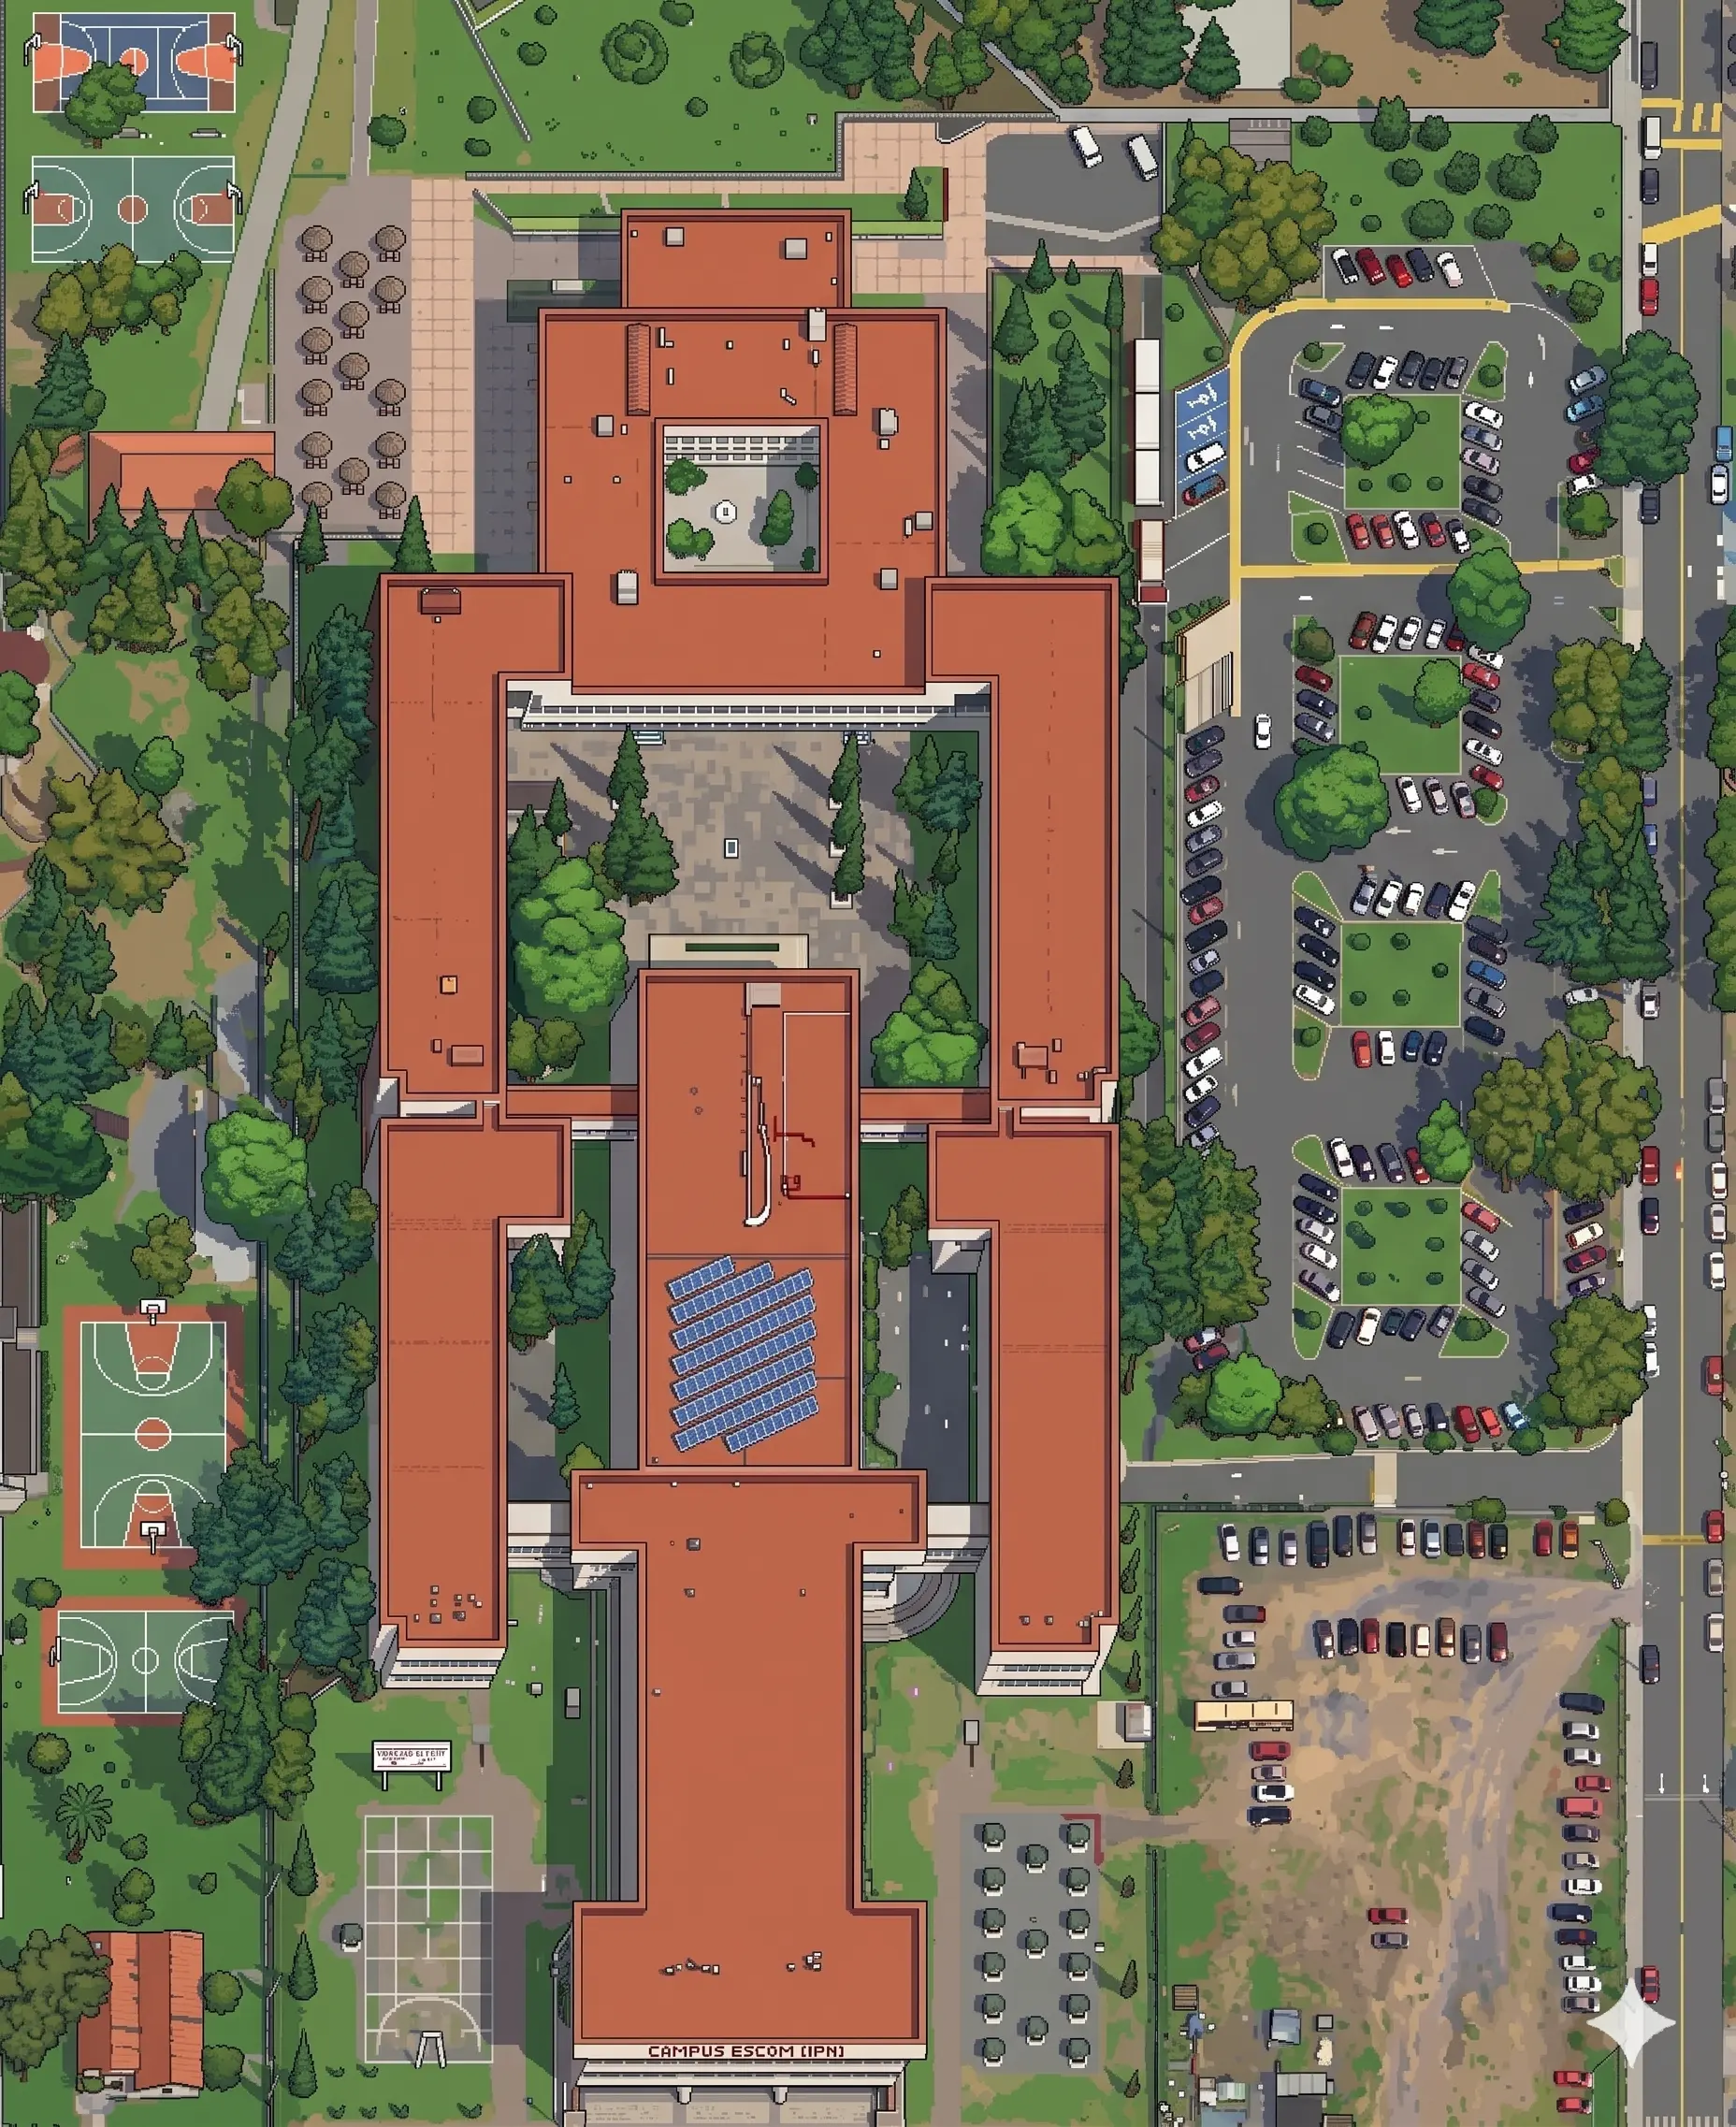
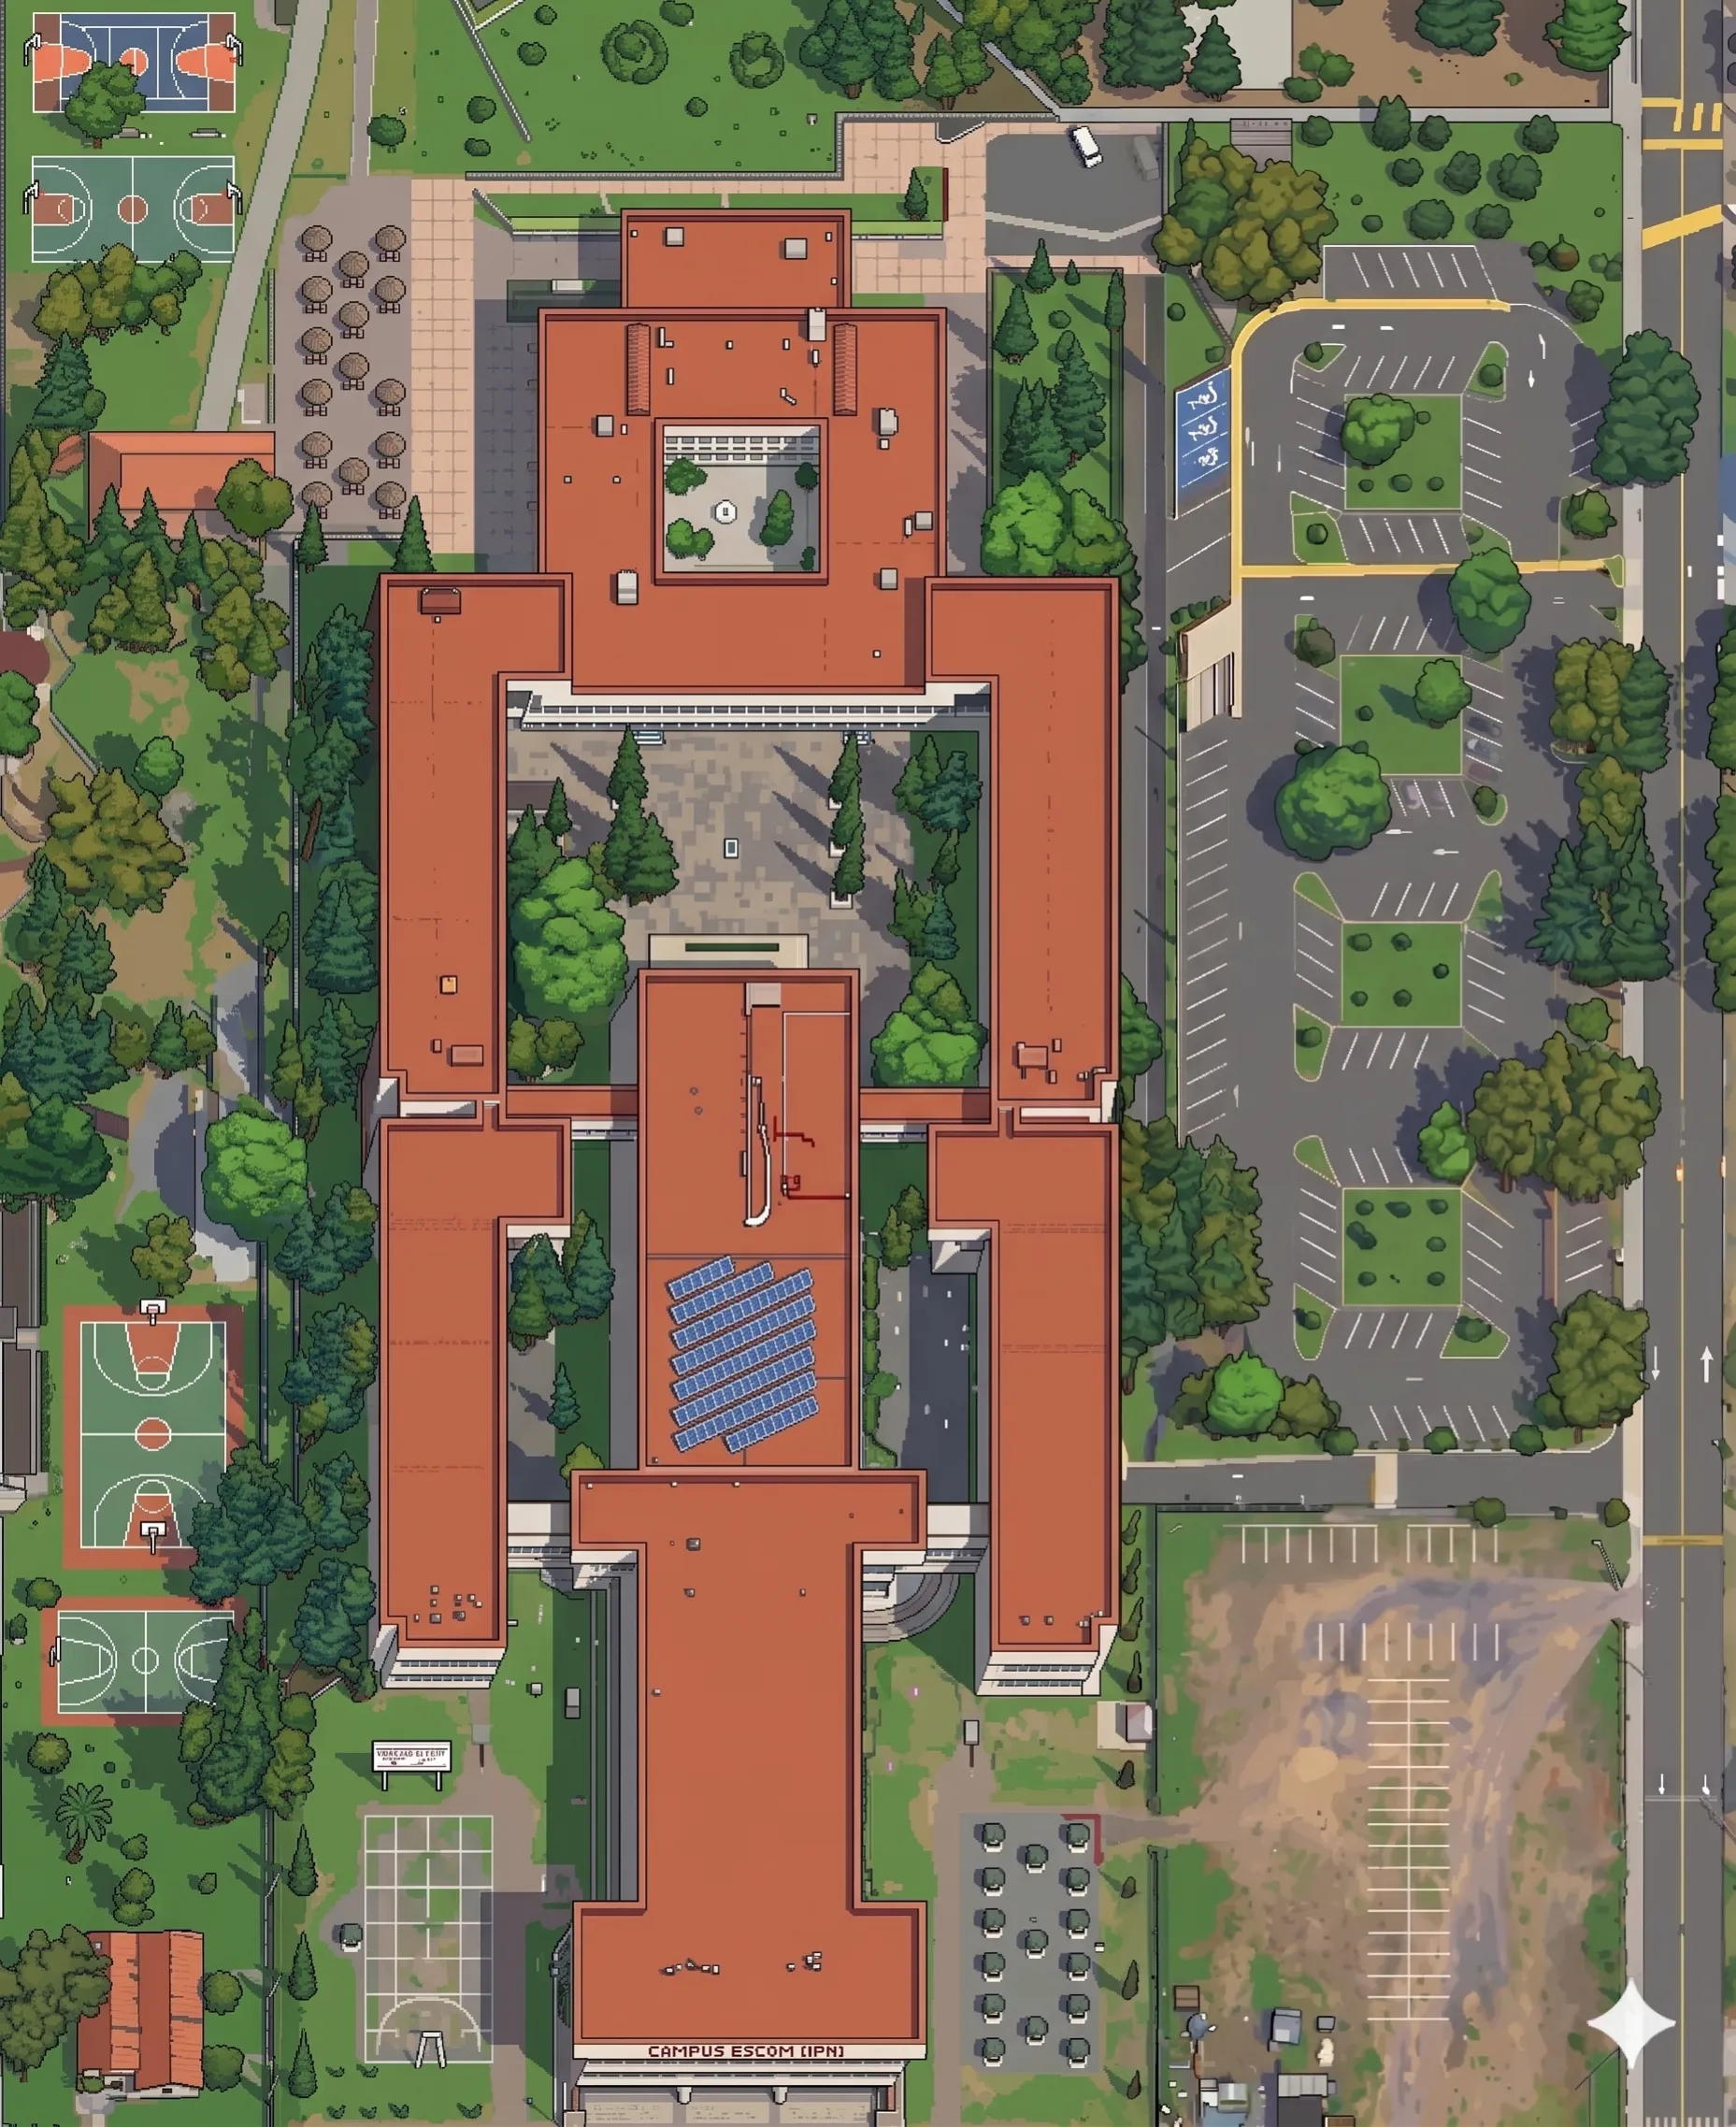
avance

diff --git a/PolitecnicoOpenWorld/app/src/main/java/ovh/gabrielhuav/pow/features/map_exterior/viewmodel/WorldMapViewModel.kt b/PolitecnicoOpenWorld/app/src/main/java/ovh/gabrielhuav/pow/features/map_exterior/viewmodel/WorldMapViewModel.kt
@@ -54,6 +54,8 @@ import ovh.gabrielhuav.pow.data.repository.CollectibleRepository
 import ovh.gabrielhuav.pow.domain.models.ActiveCollectible
 import androidx.compose.runtime.getValue
 import androidx.compose.runtime.setValue
+import java.io.InputStreamReader
+import ovh.gabrielhuav.pow.domain.models.ai.LandmarkNavGraph
 
 enum class Direction { UP, DOWN, LEFT, RIGHT }
 enum class GameAction { A, B, X, Y }
@@ -160,6 +162,8 @@ class WorldMapViewModel(
             swapControls = settingsRepository.getSwapControls()
         )
     )
+    // Guardaremos el grafo de ESCOM en memoria para no leer el archivo cada vez
+    private var escomNavGraph: LandmarkNavGraph? = null
     val uiState: StateFlow<WorldMapState> = _uiState.asStateFlow()
 
     private val npcAiManager      = NpcAiManager()
@@ -1713,5 +1717,56 @@ class WorldMapViewModel(
         val currentLoc = _uiState.value.currentLocation ?: return
         val distToDestinationMeters = currentLoc.distanceToAsDouble(destination)
         if (distToDestinationMeters <= _uiState.value.destinationArrivalThreshold) clearDestinationMarker()
+    }
+
+    // --- CREADOR DE AUTOS DINÁMICOS ---
+    fun spawnDynamicCarInEscom(context: Context) {
+        // 1. Cargar el JSON solo la primera vez
+        if (escomNavGraph == null) {
+            try {
+                val inputStream = context.assets.open("navgraphs/escom_navgraph.json")
+                val reader = InputStreamReader(inputStream)
+                escomNavGraph = Gson().fromJson(reader, LandmarkNavGraph::class.java)
+                reader.close()
+            } catch (e: Exception) {
+                Log.e("DYNAMIC_CARS", "Error leyendo escom_navgraph.json", e)
+                android.widget.Toast.makeText(context, "Error: No se encontró el JSON", android.widget.Toast.LENGTH_SHORT).show()
+                return
+            }
+        }
+
+        val navGraph = escomNavGraph ?: return
+
+        // 2. Buscar ESCOM en el mapa actual
+        val escomLandmark = _uiState.value.landmarks.find { it.assetPath.contains("building_escom", ignoreCase = true) }
+        if (escomLandmark == null) {
+            android.widget.Toast.makeText(context, "Error: ESCOM no está en el mapa", android.widget.Toast.LENGTH_SHORT).show()
+            return
+        }
+
+        // 3. Obtener el punto de inicio (Way 101, Nodo 1)
+        val entryWayId = navGraph.entryWays.firstOrNull() ?: return
+        val entryWay = navGraph.ways.find { it.id == entryWayId } ?: return
+        val entryNode = entryWay.nodes.firstOrNull() ?: return
+
+// 4. Convertir coordenadas locales a globales reales en el mapa
+        val spawnGeoPoint = escomLandmark.toGlobalGeoPoint(entryNode.localX, entryNode.localY)
+
+        // 5. Crear el NPC
+        val newCarId = "DYN_CAR_${System.currentTimeMillis()}"
+        val newCar = ovh.gabrielhuav.pow.domain.models.Npc(
+            id = newCarId,
+            type = ovh.gabrielhuav.pow.domain.models.NpcType.CAR,
+            location = spawnGeoPoint,
+            carColor = android.graphics.Color.WHITE,
+            carModel = ovh.gabrielhuav.pow.domain.models.CarModel.SPORT,
+            speed = 0.0,
+            rotationAngle = 0f
+        )
+
+        // 6. Inyectarlo al juego
+        _uiState.update { it.copy(npcs = it.npcs + newCar) }
+
+        android.widget.Toast.makeText(context, "🚗 Auto inyectado en Nodo 1", android.widget.Toast.LENGTH_SHORT).show()
     }
 }

diff --git a/PolitecnicoOpenWorld/app/src/main/java/ovh/gabrielhuav/pow/domain/models/ai/LocalNavModels.kt b/PolitecnicoOpenWorld/app/src/main/java/ovh/gabrielhuav/pow/domain/models/ai/LocalNavModels.kt
@@ -1,23 +1,25 @@
 package ovh.gabrielhuav.pow.domain.models.ai
 
+import com.google.gson.annotations.SerializedName
+
 // Coordenada local dentro del asset.
-// localX va de 0.0 (izquierda) a 1.0 (derecha)
-// localY va de 0.0 (arriba) a 1.0 (abajo)
 data class LocalNode(
-    val id: Int,
-    val localX: Float,
-    val localY: Float,
-    val isParkingSlot: Boolean = false // Define si aquí un auto debe detenerse y estacionarse
+    @SerializedName("id") val id: Int,
+    @SerializedName("localX") val localX: Float,
+    @SerializedName("localY") val localY: Float,
+    @SerializedName("isParkingSlot") val isParkingSlot: Boolean = false,
+    @SerializedName("description") val description: String? = null
 )
 
 data class LocalWay(
-    val id: Int,
-    val nodes: List<LocalNode>,
-    val isForCars: Boolean,
-    val isForPeople: Boolean
+    @SerializedName("id") val id: Int,
+    @SerializedName("nodes") val nodes: List<LocalNode>,
+    @SerializedName("isForCars") val isForCars: Boolean = true,
+    @SerializedName("isForPeople") val isForPeople: Boolean = false
 )
 
 data class LandmarkNavGraph(
-    val ways: List<LocalWay>,
-    val entryNodes: List<Int> // IDs de los LocalNodes que sirven de puerta entre OSM y este edificio
+    @SerializedName("landmarkId") val landmarkId: String? = null,
+    @SerializedName("entryWays") val entryWays: List<Int> = emptyList(), // JSON usa entryWays
+    @SerializedName("ways") val ways: List<LocalWay> = emptyList()
 )

diff --git a/PolitecnicoOpenWorld/app/src/main/java/ovh/gabrielhuav/pow/features/map_exterior/ui/components/Designerpanel.kt b/PolitecnicoOpenWorld/app/src/main/java/ovh/gabrielhuav/pow/features/map_exterior/ui/components/Designerpanel.kt
@@ -42,6 +42,8 @@ import androidx.compose.material.icons.filled.LocationOn
 import androidx.compose.material3.Divider
 import androidx.compose.material3.Checkbox
 import androidx.compose.material.icons.filled.Add
+import androidx.compose.foundation.rememberScrollState
+import androidx.compose.foundation.verticalScroll
 
 @Composable
 fun DesignerPanel(
@@ -58,6 +60,7 @@ fun DesignerPanel(
     onToggleParkingMode: (Boolean) -> Unit = {},
     onNewWay: () -> Unit = {},
     onDebugPoint: () -> Unit = {},
+    onSpawnTestCar: () -> Unit = {}, // <--- NUEVA LÍNEA AQUÍ
     modifier: Modifier = Modifier
 ) {
     val moveStep = 0.0001
@@ -66,6 +69,7 @@ fun DesignerPanel(
         modifier = modifier
             .background(Color(0xFF1E1E24).copy(alpha = 0.95f), RoundedCornerShape(12.dp))
             .border(1.dp, Color(0xFFD4AF37), RoundedCornerShape(12.dp))
+            .verticalScroll(rememberScrollState()) // <--- AGREGAMOS ESTO PARA PODER DESLIZAR
             .padding(12.dp),
         verticalArrangement = Arrangement.spacedBy(10.dp)
     ) {
@@ -231,6 +235,14 @@ fun DesignerPanel(
                     Icon(Icons.Default.Add, null, tint = Color.White, modifier = Modifier.size(16.dp))
                     Spacer(Modifier.width(4.dp))
                     Text("CAPTURAR", color = Color.White, fontSize = 11.sp, fontWeight = FontWeight.Bold)
+                }
+                Button(
+                    onClick = onSpawnTestCar,
+                    modifier = Modifier.fillMaxWidth().height(40.dp),
+                    colors = ButtonDefaults.buttonColors(containerColor = Color(0xFF4CAF50)), // Color Verde
+                    shape = RoundedCornerShape(8.dp)
+                ) {
+                    Text("🚗 SPAWN AUTO DE PRUEBA", color = Color.White, fontSize = 11.sp, fontWeight = FontWeight.Bold)
                 }
             }
         }

diff --git a/PolitecnicoOpenWorld/app/src/main/java/ovh/gabrielhuav/pow/features/map_exterior/ui/WorldMapScreen.kt b/PolitecnicoOpenWorld/app/src/main/java/ovh/gabrielhuav/pow/features/map_exterior/ui/WorldMapScreen.kt
@@ -1147,11 +1147,16 @@ fun WorldMapScreen(
                 onToggleParkingMode = { isChecked -> viewModel.toggleParkingMode(isChecked) },
                 onNewWay = { viewModel.startNewWay() },
                 onDebugPoint = { viewModel.debugPlayerLocalCoordinates(context) },
-                modifier = Modifier.align(Alignment.TopCenter).padding(top = 130.dp, start = 12.dp, end = 12.dp).fillMaxWidth(0.9f)
+                onSpawnTestCar = { viewModel.spawnDynamicCarInEscom(context) }, // <--- NUEVA LÍNEA AQUÍ
+                modifier = Modifier
+                    .align(Alignment.TopCenter)
+                    // Reducimos el 'top' a 50 para que suba, y ponemos 'bottom' a 160 para salvar el joystick
+                    .padding(top = 50.dp, start = 12.dp, end = 12.dp, bottom = 160.dp)
+                    .fillMaxWidth(0.9f)
             )
         }
 
-        if (!uiState.isDesignerMode) {
+        //if (!uiState.isDesignerMode) {
             val configuration = LocalConfiguration.current
             val isPortrait = configuration.orientation == Configuration.ORIENTATION_PORTRAIT
             val maxScale = if (isPortrait) 1.0f else 1.4f
@@ -1199,7 +1204,7 @@ fun WorldMapScreen(
                     if (uiState.swapControls) { actionComponent(); movementComponent() } else { movementComponent(); actionComponent() }
                 }
             }
-        }
+        //}
     }
 
     if (uiState.showWastedScreen) {